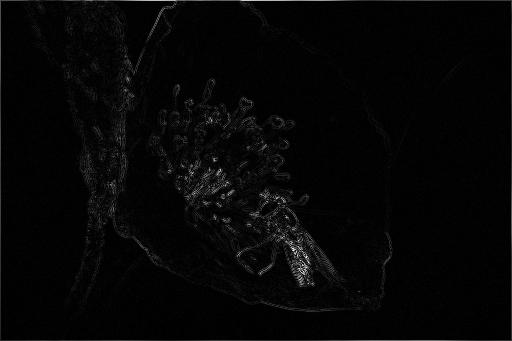
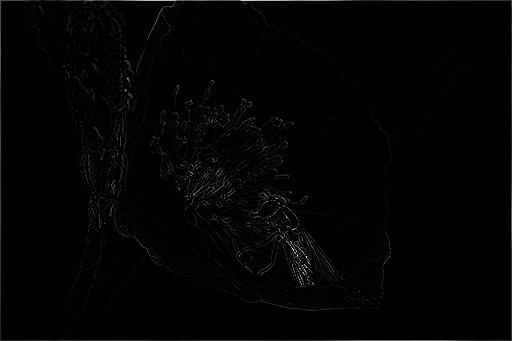
FPGA tutorial update

diff --git a/projects/fpgaedgedetect.html b/projects/fpgaedgedetect.html
@@ -42,6 +42,7 @@
 <ul class="ul_v" id="vertical_nav">
 	<li class="vnav"><a href="#Sobel">Sobel Operator</a></li>
 	<li class="vnav"><a href="#Laplace">Laplace Operator</a></li>
+	<li class="vnav"><a href="#HardwareConsiderations">Hardware Considerations</a></li>
 </ul>
 
 <script src="../js/floatingnav.js"></script>
@@ -72,7 +73,7 @@ both operate on 3x3 pixel grids.
 <hr>
 
 <p>
-The Sobel operator quite simply approximates the derivates in the x and y direction of the source image.
+The Sobel matrix quite simply approximates the derivates in the x and y direction of the source image.
 </p>
 <p>
 The x direction matrix is defined as: 
@@ -105,15 +106,22 @@ $
 <img src="../images/sobel.jpg" width="512">
 <img src="../images/sobel_bin.jpg" width="512">
 
+<p>
+The Sobel matrix performs quite well, and it highlights the edges we expect it to highlight. For example, the hoverfly on the flower 
+has its legs and eyes clearly outlined by this operation; the flower itself is also highlighted around the perimeter where there is 
+a large contrast change.
+</p>
+
+
 <h3 id="Laplace">Laplace</h3>
 <hr>
 <p>
-Laplace operator is also a form of edge detection, but it estimates the second derivative. This is theoretically much more precise and 
+Laplace matrix is also a form of edge detection, but it estimates the second derivative. This is theoretically much more precise and 
 accurate than a simple first derivative approximation. Although, it all sounds great on paper, this operator is easily distorted by image 
 noise as seen in the example images below.
 </p>
 <p>
-The Laplace operator is defined as: 
+The Laplace matrix is defined as: 
 $
 \begin{split}\left[\begin{array}{ccc}
 0 & -1 & 0 \\
@@ -125,8 +133,43 @@ $
 <img src="../images/laplace.jpg" width="512">
 <img src="../images/laplace_bin.jpg" width="512">
 
-<h3></h3>
+<p>
+There is also a version of the matrix that includes the diagonals into the approximation: 
+$
+\begin{split}\left[\begin{array}{ccc}
+-1 & -1 & -1 \\
+-1 & 8 & -1 \\
+-1 & -1 & -1
+\end{array}\right]\end{split}
+$
+</p>
+<img src="../images/laplace_v2.jpg" width="512">
+<img src="../images/laplace_v2_bin.jpg" width="512">
+
+<h3 id="HardwareConsiderations">Hardware Considerations</h3>
 <hr>
+
+<p>
+Now here is the fun part. There is no way we can make the system can work at the speeds needed if the hardware is designed without 
+thought. First of all, most images are reliably within 8-16 bits of color depth per pixel; if the image is destined to be displayed 
+onto a screen, then it is typically 8-10 bits only. As an example, performing the Sobel matrix operation on an 8bit (RGB) image results in 
+38 multiplications, 11 additions, and 1 square root (all have to support 8bit depth). Let's think. Is there something about the matrices 
+that stands out? Well, there should be. If you noticed, all the matrix entries are <i>powers of two</i>! This means that we can shift 
+the bits (essentially a free operation) instead of multiplication. This brings the tally down to only 2 multiplications instead of 38! 
+The reason why we can't avoid the last two multiplications because we need to compute the final magnitude of the pixel which uses the formula:
+</p>
+
+<p>
+$
+Pixel Magnitude = \sqrt{XMag^{2} + YMag^{2}}
+$
+, luckily these two multiplications can be done in parallel at the cost of extra surface area.
+</p>
+
+<p>
+On the other hand, Laplace now appears as a great alternative because there is no multiplication or square roots involved in the approximation. 
+All we need to do is perform just <i>one</i> bitshift to the center pixel value and process 8 additions.
+</p>
 
 <pre class="code">
 //Full adder in SystemVerilog
